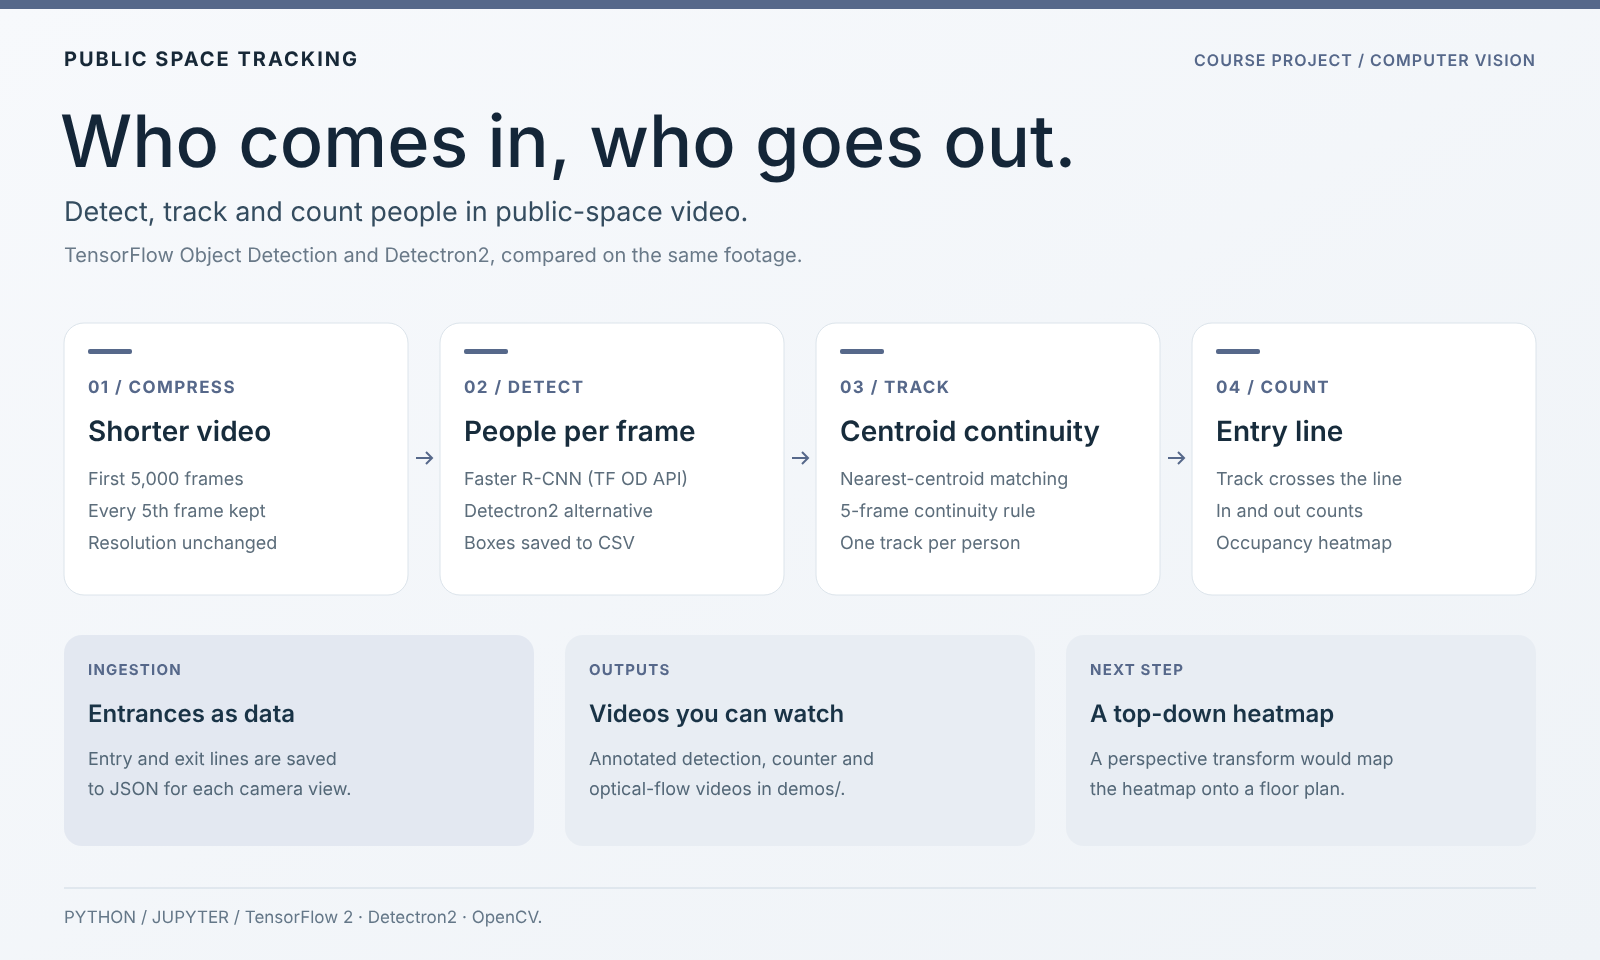
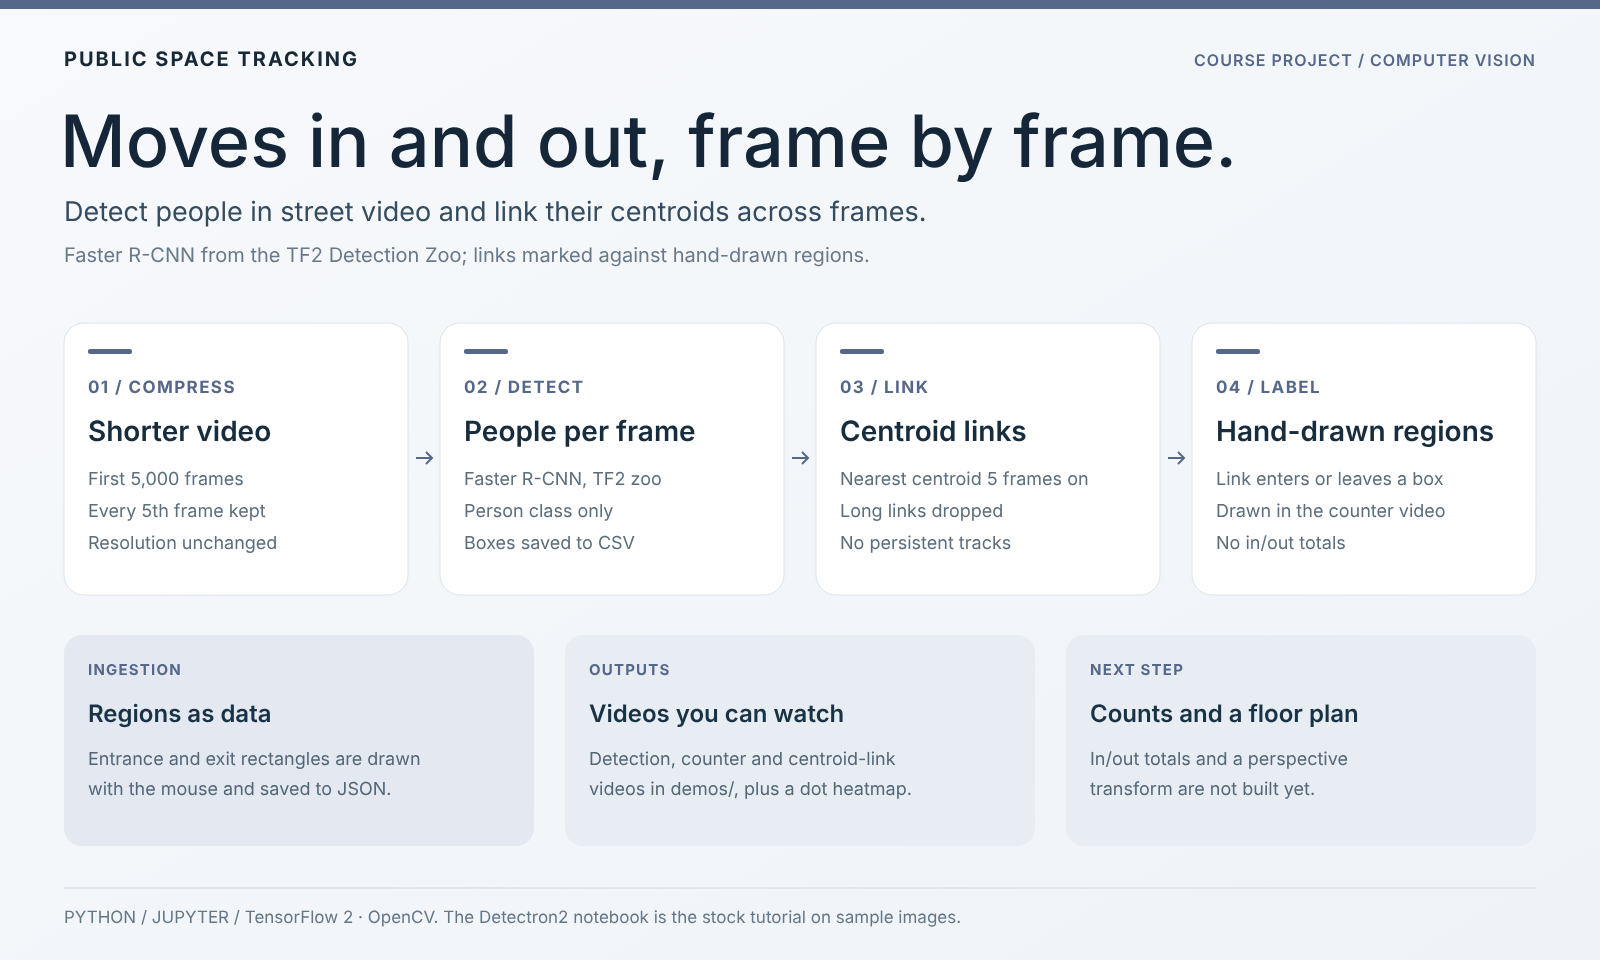
docs: describe what the code does

diff --git a/README.md b/README.md
@@ -4,14 +4,14 @@
 
 **English** · [简体中文](README.zh-CN.md)
 
-**Detect, track and count people entering and leaving a public space.**
+**Detect people in street video, link their centroids across frames and mark moves into or out of chosen regions.**
 
 ![Python](https://img.shields.io/badge/Python-3-3776AB?logo=python&logoColor=white)
 ![TensorFlow](https://img.shields.io/badge/TensorFlow-Object%20Detection-FF6F00?logo=tensorflow&logoColor=white)
 ![Detectron2](https://img.shields.io/badge/Detectron2-PyTorch-EE4C2C?logo=pytorch&logoColor=white)
 [![homepage](https://img.shields.io/badge/homepage-ccao2679.com-555555)](https://www.ccao2679.com/projects/#public-space-tracking)
 
-<img src="docs/figures/overview.png" alt="Overview poster: compress video, detect people, track centroids, count crossings of an entry line" width="100%">
+<img src="docs/figures/overview.png" alt="Overview poster: compress video, detect people, link centroids five frames apart, mark links that enter or leave hand-drawn regions" width="100%">
 
 </div>
 
@@ -31,9 +31,9 @@
 
 ## Highlights
 
-- **Detection:** people in each frame with the TensorFlow Object Detection API (Faster R-CNN Inception-ResNet v2), compared with Detectron2.
-- **Tracking and counting:** box centroids are linked across frames by nearest-centroid continuity; a track that crosses the entry line counts as in or out.
-- **Outputs:** annotated detection, counter and optical-flow videos, plus an occupancy heatmap.
+- **Detection:** people in each frame of the project video, using a Faster R-CNN Inception-ResNet v2 model from the TF2 Detection Zoo (COCO) loaded as a TensorFlow SavedModel. `Object_detection_T1.ipynb` and `Detectron2_T2.ipynb` are the stock TF-Hub and Detectron2 tutorials run on sample images, not a comparison on the project video.
+- **Linking and labelling:** each box centroid is linked to the nearest centroid five frames later, and links longer than that frame's mean link length are dropped. A link that starts outside a rectangle drawn in `ingestion.py` and ends inside it is marked as entering (the reverse as leaving). No in/out totals are computed.
+- **Outputs:** a video with detection boxes, a counter video showing the entering and leaving links, a video of all centroid links (`testMotionOpticalFlow.avi`) and an image with every detected centroid drawn as a dot.
 
 <p align="center"><img src="demos/testHeatmap.png" alt="Detected person positions accumulated over a street scene" width="640"></p>
 
@@ -64,12 +64,12 @@ Each step reads the file written by the step above it; `detectionVis.py`, `count
 
 | Step | Script | What it does |
 |---|---|---|
-| Compress | `compression.py` | Keep the first 5,000 frames and every 5th frame, resolution unchanged |
-| Ingest | `ingestion.py` | Save entrance and exit lines for a camera view to JSON |
-| Detect | `detection.py` | Run a pre-trained detector and save boxes to CSV |
+| Compress | `compression.py` | Keep the first N frames and every k-th frame (entered at a prompt, e.g. 5,000 and 5), resolution unchanged |
+| Ingest | `ingestion.py` | Draw entrance and exit rectangles on a frame with the mouse and save them to JSON |
+| Detect | `detection.py` | Run the pre-trained Faster R-CNN, keep the person class and save boxes to CSV |
 | Visualize | `detectionVis.py` | Draw boxes on frames and rebuild the video |
-| Count | `counter-builder.ipynb` | Link centroids into tracks and count line crossings |
-| Heatmap | `detectionVis-Heatmap.ipynb` | Accumulate positions into a heatmap |
+| Link | `counter-builder.ipynb` | Link each centroid to the nearest one five frames later and mark links that enter or leave a rectangle |
+| Heatmap | `detectionVis-Heatmap.ipynb` | Draw every detection centroid as a dot on one frame |
 
 Detector weights go in `models/` (see the [TF2 detection zoo](https://github.com/tensorflow/models/blob/master/research/object_detection/g3doc/tf2_detection_zoo.md)).
 

diff --git a/README.zh-CN.md b/README.zh-CN.md
@@ -4,14 +4,14 @@
 
 [English](README.md) · **简体中文**
 
-**检测、跟踪并统计进出公共空间的人数。**
+**在街景视频中检测行人，跨帧连接质心，并标记进入或离开选定区域的移动。**
 
 ![Python](https://img.shields.io/badge/Python-3-3776AB?logo=python&logoColor=white)
 ![TensorFlow](https://img.shields.io/badge/TensorFlow-Object%20Detection-FF6F00?logo=tensorflow&logoColor=white)
 ![Detectron2](https://img.shields.io/badge/Detectron2-PyTorch-EE4C2C?logo=pytorch&logoColor=white)
 [![homepage](https://img.shields.io/badge/homepage-ccao2679.com-555555)](https://www.ccao2679.com/projects/#public-space-tracking)
 
-<img src="docs/figures/overview.png" alt="项目概览海报：压缩视频、检测行人、跟踪质心、统计穿过入口线的次数" width="100%">
+<img src="docs/figures/overview.png" alt="项目概览海报：压缩视频、检测行人、连接相隔五帧的质心、标记进入或离开手绘区域的连线" width="100%">
 
 </div>
 
@@ -31,9 +31,9 @@
 
 ## 亮点
 
-- **检测：** 用 TensorFlow Object Detection API（Faster R-CNN Inception-ResNet v2）检测每一帧中的行人，并与 Detectron2 做对比。
-- **跟踪与计数：** 按最近质心的连续性把各帧检测框的质心连接起来；穿过入口线的轨迹记为一次进入或离开。
-- **输出：** 带检测框的视频、计数视频和光流视频，以及一张人员分布热力图。
+- **检测：** 用 TF2 Detection Zoo 中的 Faster R-CNN Inception-ResNet v2 模型（COCO，以 TensorFlow SavedModel 加载）检测项目视频每一帧中的行人。`Object_detection_T1.ipynb` 和 `Detectron2_T2.ipynb` 是在示例图片上运行的 TF-Hub 与 Detectron2 官方教程，并不是在项目视频上的对比。
+- **连线与标记：** 把每个检测框质心与五帧之后距离最近的质心相连，长于该帧平均连线长度的连线会被丢弃。若连线从 `ingestion.py` 手绘的矩形外开始、在矩形内结束，就标记为进入（反之为离开）。代码不计算进出总数。
+- **输出：** 带检测框的视频、标出进入与离开连线的计数视频、包含全部质心连线的视频（`testMotionOpticalFlow.avi`），以及一张把所有检测质心画成散点的图片。
 
 <p align="center"><img src="demos/testHeatmap.png" alt="街景中检测到的行人位置累积图" width="640"></p>
 
@@ -64,12 +64,12 @@ flowchart TD
 
 | 步骤 | 脚本 | 作用 |
 |---|---|---|
-| 压缩 | `compression.py` | 保留前 5,000 帧，每 5 帧取 1 帧，分辨率不变 |
-| 录入 | `ingestion.py` | 把某个摄像头视角下的入口线和出口线保存为 JSON |
-| 检测 | `detection.py` | 运行预训练检测器，把检测框保存为 CSV |
+| 压缩 | `compression.py` | 保留前 N 帧，每 k 帧取 1 帧（运行时输入，例如 5,000 和 5），分辨率不变 |
+| 录入 | `ingestion.py` | 用鼠标在一帧画面上绘制入口和出口矩形，并保存为 JSON |
+| 检测 | `detection.py` | 运行预训练的 Faster R-CNN，只保留 person 类，把检测框保存为 CSV |
 | 可视化 | `detectionVis.py` | 在每帧上绘制检测框，再重新合成视频 |
-| 计数 | `counter-builder.ipynb` | 把质心连接成轨迹，统计越线次数 |
-| 热力图 | `detectionVis-Heatmap.ipynb` | 把位置累积成热力图 |
+| 连线 | `counter-builder.ipynb` | 把每个质心与五帧之后最近的质心相连，并标出进入或离开矩形的连线 |
+| 热力图 | `detectionVis-Heatmap.ipynb` | 把所有检测质心画成散点，叠加在一帧画面上 |
 
 检测器权重放在 `models/` 目录下（见 [TF2 detection zoo](https://github.com/tensorflow/models/blob/master/research/object_detection/g3doc/tf2_detection_zoo.md)）。
 

diff --git a/PROBLEM.md b/PROBLEM.md
@@ -6,7 +6,7 @@
 
 **Central tension:** Subsampling lowers processing cost but makes motion association harder; a simple centroid rule can confuse crossing people, occlusion and missed detections.
 
-**Current evidence and gap:** [README.md](README.md) describes video compression, pretrained person detection, centroid continuity and heatmaps. It explicitly notes tracking limitations. These components do not establish counting accuracy or a geometrically correct top-view map.
+**Current evidence and gap:** [README.md](README.md) describes video compression, pretrained person detection, linking centroids between frames five apart, and a centroid-dot heatmap. The counter notebook marks links that enter or leave hand-drawn rectangles but computes no in/out totals, and the original notes acknowledge the limits of the linking rule. These components do not establish counting accuracy or a geometrically correct top-view map.
 
 **Acceptance test:** Annotate entrance/exit events in a permitted video sample, then hold complete clips out of tuning. Compare the current centroid tracker with detection-only counting and a clearly specified association baseline at matched detections. Vary frame stride while recording event precision/recall, cumulative count error, identity switches and runtime. Separate occluded and crossing-person cases. If speed gains cause unacceptable count drift, reduce stride or improve association before extending deployment.
 

diff --git a/PROBLEM.zh.md b/PROBLEM.zh.md
@@ -6,7 +6,7 @@
 
 **核心矛盾：** 抽帧降低了处理成本，却让运动关联更难；简单的质心规则可能把交错行走的人、遮挡和漏检混为一谈。
 
-**已有证据与缺口：** [README.md](README.md) 介绍了视频压缩、预训练行人检测、质心连续性和热力图，并明确指出了跟踪方面的局限。这些组件并不能证明计数准确，也不能证明得到的是几何上正确的俯视图。
+**已有证据与缺口：** [README.md](README.md) 介绍了视频压缩、预训练行人检测、相隔五帧的质心连线，以及质心散点热力图。计数 notebook 会标出进入或离开手绘矩形的连线，但不计算进出总数；原始笔记也承认了连线规则的局限。这些组件并不能证明计数准确，也不能证明得到的是几何上正确的俯视图。
 
 **验收测试：** 在获准使用的视频样本中标注进出事件，并把完整片段留出、不参与调参。在检测结果相同的前提下，对比当前的质心跟踪器、仅基于检测的计数，以及一个定义清晰的关联基线。改变抽帧步长，同时记录事件级 precision/recall、累计计数误差、身份切换次数和运行时间。遮挡和行人交错的情况单独统计。若提速带来不可接受的计数漂移，应先减小步长或改进关联，再扩大部署范围。
 
